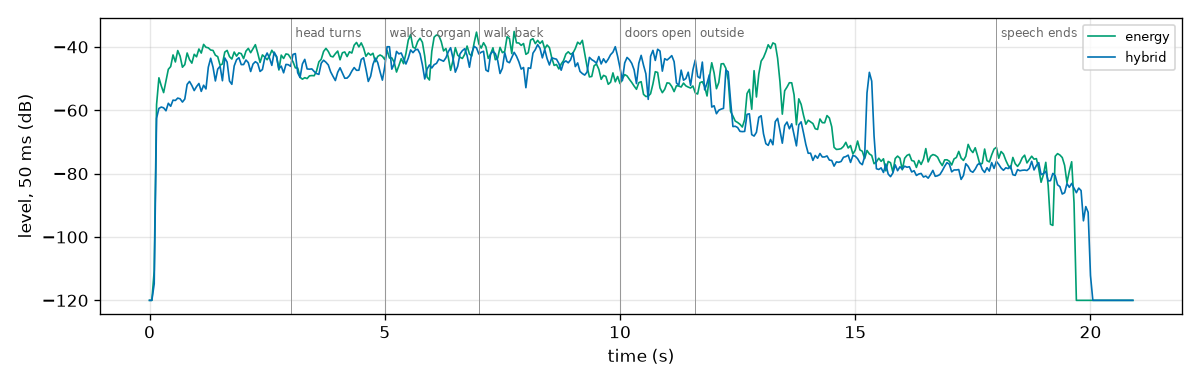
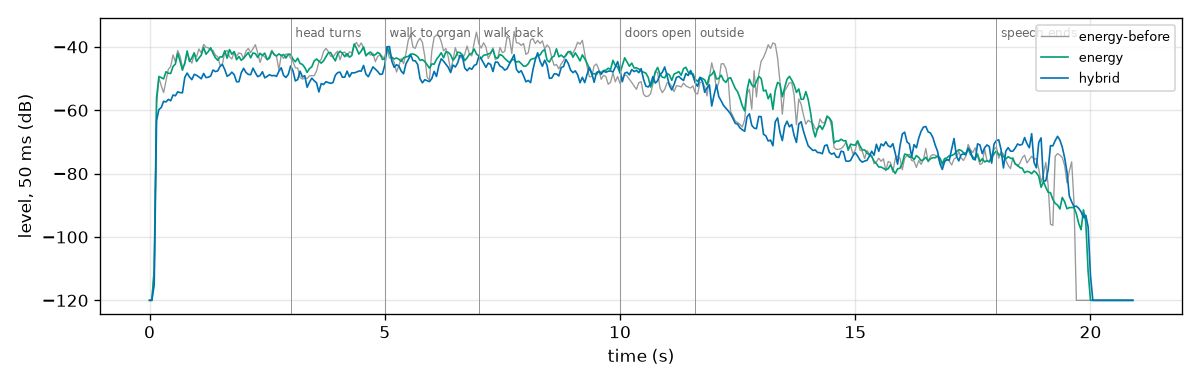
docs: record the tail-burst fix, the Church materials and the new renders
The energy-audio benchmark explains the frozen reverb-tail bursts (uniform
edge rays, then sparse receiver-sphere hits), the before/after tail and
suite numbers, the material table with sources, the room volume and
predicted reverberation against measured basilicas, and the re-rendered
Church walk. The contract describes the edge-ray sampling and the diffuse
receiver size.

Changed region(s): [[0.1233, 0.0938, 0.925, 0.7812], [0.8633, 0.0625, 0.9867, 0.25], [0.6167, 0.125, 0.6475, 0.1562]]

diff --git a/docs/benchmarks/energy-audio-2026-11-09/listen.py b/docs/benchmarks/energy-audio-2026-11-09/listen.py
@@ -28,7 +28,13 @@ ROOT = Path(__file__).resolve().parents[3]
 sys.path.insert(0, str(ROOT / 'tools'))
 import dlss_jobs as dj  # noqa: E402
 
-TAKE = ROOT / '.context/church-motion/speech-full/take'
+# The speech walk re-captured with the published materials and interior proxies (church.py capture);
+# the 15 October capture before it.
+TAKE_BEFORE = ROOT / '.context/church-motion/speech-full/take'
+TAKE = ROOT / '.context/energy-audio/church/speech-walk/take'
+if not (TAKE / 'take.json').exists():
+    TAKE = TAKE_BEFORE
+BEFORE = ROOT / '.context/energy-audio/listen/before-2026-11-09'   # the 9 November renders (old materials, old edge sampling)
 WORK = ROOT / '.context/energy-audio/listen'
 LOGS = ROOT / '.context/energy-audio/logs'
 # Shared by both renders: the Church walk's spectral DSP, binaural, 2 s horizon, air absorption.
@@ -42,8 +48,11 @@ METHODS = {
     'hybrid': dict(COMMON, method=0, raysPerBin=2, reflectionCandidates=128, completeRouteSamples=0, diffractionFactor=0.0,
                    lateRays=512, lateReceiverRadius=.5),
     # Energy method: exact discrete arrivals + the energy walk as the late field.
+    # The diffuse field's receiver sphere is 2 m: in this 31,000 m^3 church a 0.5 m sphere is crossed
+    # about 35 times per solve over 2 s by 2,048 rays, too few for a smooth 23 ms envelope; 2 m gives
+    # 16x the crossings (time smear <= 12 ms, below the late field's 23 ms bins).
     'energy': dict(COMMON, method=2, methodRays=2048, methodArrivalSlots=64, methodArrivalOrder=2, methodRouletteFloor=1e-6,
-                   specularDetectionRadius=.5),
+                   specularDetectionRadius=2.0),
 }
 # Diagnostic variants of the energy render (the coordinator's "echo doesn't sound natural" check).
 # They need the uncommitted methodDiagnosticVariant knob (.context/energy-audio/diagnostic-variants.patch):
@@ -174,14 +183,14 @@ def level_figure(path, tracks, rate):
     import matplotlib
     matplotlib.use('Agg')
     import matplotlib.pyplot as plt
-    colors = dict(hybrid='#0072B2', energy='#009E73')
+    colors = {'hybrid': '#0072B2', 'energy': '#009E73', 'energy-before': '#999999'}
     fig, ax = plt.subplots(figsize=(10, 3.2))
     block = rate // 20
     for name, pcm in tracks.items():
         mono = (pcm ** 2).mean(1)
         n = len(mono) // block
         level = 10 * np.log10(np.maximum(mono[:n * block].reshape(n, block).mean(1), 1e-12))
-        ax.plot(np.arange(n) * block / rate, level, color=colors[name], lw=1, label=name)
+        ax.plot(np.arange(n) * block / rate, level, color=colors.get(name, '#999999'), lw=.8 if name.endswith('before') else 1, label=name)
     for t, label in [(3, 'head turns'), (5, 'walk to organ'), (7, 'walk back'), (10, 'doors open'), (11.6, 'outside'), (18, 'speech ends')]:
         ax.axvline(t, color='#999999', lw=.6); ax.text(t + .1, ax.get_ylim()[1] - 6, label, fontsize=7, color='#666666')
     ax.set_xlabel('time (s)'); ax.set_ylabel('level, 50 ms (dB)'); ax.grid(alpha=.3); ax.legend(fontsize=8)
@@ -193,8 +202,8 @@ def page():
     scene_map(WORK / 'scene-map.png')
     tracks, reports = {}, {}
     rate = None
-    for name in ('energy', 'hybrid', *VARIANTS):
-        folder = WORK / name
+    for name in ('energy', 'hybrid', 'energy-before', 'hybrid-before', *VARIANTS):
+        folder = BEFORE / name.replace('-before', '') if name.endswith('-before') else WORK / name
         if not (folder / 'listener-0.wav').exists():
             continue
         pcm, rate = read_wav(folder / 'listener-0.wav')
@@ -204,19 +213,21 @@ def page():
         reports[name] = report
     if not tracks:
         raise SystemExit('No renders yet.')
-    peak = max(np.abs(tracks[n]).max() for n in ('energy', 'hybrid') if n in tracks)  # variants share this gain
+    peak = max(np.abs(tracks[n]).max() for n in ('energy', 'hybrid', 'energy-before', 'hybrid-before') if n in tracks)  # all tracks share this gain
     gain = .5 / peak
     for name, pcm in tracks.items():
         write_wav16(WORK / f'{name}.wav', pcm * gain, rate)
-    level_figure(WORK / 'levels.png', {n: tracks[n] for n in ('energy', 'hybrid') if n in tracks}, rate)
+    level_figure(WORK / 'levels.png', {n: tracks[n] for n in ('energy-before', 'energy', 'hybrid') if n in tracks}, rate)
     rows = []
     for name, r in reports.items():
-        if name in VARIANTS:
+        if name in VARIANTS or name.endswith('-before'):
             continue
         rms = 20 * math.log10(math.sqrt((tracks[name] ** 2).mean()) * gain)
         audio = r.get('gpuAudio') or {}
         rows.append(f"<tr><td>{name}</td><td>{r.get('wallSeconds', 0):.0f} s</td><td>{audio.get('peakGroups', 0)}</td><td>{rms:.1f} dBFS</td></tr>")
     players = '\n'.join(f'<h3>{name}</h3><audio controls preload="auto" src="{name}.wav" style="width:100%"></audio>' for name in ('energy', 'hybrid') if name in tracks)
+    players += '<h3>Before (9 November: old materials, old edge sampling)</h3>' + '\n'.join(
+        f'<h4>{name}</h4><audio controls preload="auto" src="{name}.wav" style="width:100%"></audio>' for name in ('energy-before', 'hybrid-before') if name in tracks)
     variants = '\n'.join(f'<h4>{name}</h4><audio controls preload="auto" src="{name}.wav" style="width:100%"></audio>' for name in VARIANTS if name in tracks)
     if variants:
         players += ('<h3>Diagnostic variants of the energy render (same gain)</h3><p>diffuse-only: only the direct sound is discrete, everything else is the diffuse field; '

diff --git a/docs/benchmarks/energy-audio-2026-11-09/README.md b/docs/benchmarks/energy-audio-2026-11-09/README.md
@@ -217,3 +217,130 @@ $PY tools/method_runs.py jobs goalA-rr6 --scenes shoebox-0020-presets shoebox-00
 $PY $B/lattice.py shoebox-0020-presets 1.5 && $PY $B/figures.py       # wall law and figures
 nice -n 19 $PY $B/listen.py render energy && nice -n 19 $PY $B/listen.py render hybrid && $PY $B/listen.py page
 ```
+
+## Part D: the reverb-tail bursts
+
+The user heard the energy render's echo as unnatural.
+The [render inspection](render_inspection.py) traced it to the diffuse field: while the listener stood still, a median 43% of a solve's tail energy sat in a single 23 ms slice, and the deconvolved audio had bursts 7–11 dB louder than the direct sound 0.2, 0.29 and 0.43 s after it, frozen in place because every solve uses the same seed.
+
+**Cause.**
+An edge ray picked its edge uniformly from all edges (10,249 in the Church) and its point uniformly along the edge, so its flux carried the edge count times `1/m²`, `m` the distance from the anchor to the edge point.
+The few rays that drew an edge close to the source carried enormous weights; their sphere hits were the bursts (with edge rays switched off the largest slice fell from 43% to 13%; with another seed the bursts moved).
+
+**Fix (unbiased, no clipping).**
+Edge rays now leave the source only, with the edge and the point importance-sampled per solve (`EnergyEdgeWeights`, `EnergyEdgeScan`):
+- edge `e` is drawn with probability proportional to `angle_e · ∫ dz / m²` over the edge, which is `angle_e (atan((L − z0)/r) − atan(−z0/r)) / r` for a source at distance `r` from the edge line, times one if a cheap visibility test sees the edge and 0.1 otherwise (so partly visible edges stay reachable);
+- the point is drawn with density proportional to `1/m²` (a Cauchy law about the foot of the perpendicular), which cancels the `1/m²` of the flux exactly.
+A ray's flux is then `|D|² sin²β I` times the total weight over the visibility factor: bounded, where it used to scale with the edge count and diverge near an edge.
+Edge rays no longer start at scattering points (their uniform edge choice had the same divergence); a scattering point's diffraction is its D/RD/DD connections to the listener, and scatter → edge → reflection chains are omitted.
+The walk keeps one fixed seed: with bounded weights a fixed seed gives a stable tail that changes smoothly with movement, while a new seed per solve would add frame-to-frame flicker of the size of the seed-to-seed spread (measured below).
+
+**Results.**
+Whole walk inside the Church (0–10 s, 431 solves), 1 kHz band, first 2 s of the diffuse field in 23 ms slices (`render_inspection.py tail_acceptance`):
+
+| Walk | Largest slice share of the tail energy (median / 90th percentile) |
+|---|---:|
+| 9 November (uniform edge rays) | 43% / 52% |
+| importance-sampled edge rays, 0.5 m receiver sphere, seed 0 | 21% / 22% |
+| the same, seed 1 | 19% / 26% |
+| re-captured Church (new materials), 0.5 m sphere, 40 solves | 17% / 26% |
+| the same with a 2 m receiver sphere (the listening render) | 9% / 13% |
+| the same with 0.5 m and 8,192 rays (4x the cost) | 9% / 14% |
+
+A smooth decay at this church's reverberation time puts about 8% in its largest slice.
+The edge fix halved the share; what remained was not diffraction (switching diffraction off left 21%) nor the listener-near diffuse connections (a 1 m minimum distance changed nothing), but sparse receiver-sphere hits: in a 31,000 m³ room 2,048 rays cross a 0.5 m sphere only about 35 times over 2 s, so specularly reflected late energy arrives in a few frozen hits.
+The sphere radius sets how many rays the diffuse field averages; the listening render uses 2 m (16 times the crossings), which smears arrival times by at most 12 ms, below the late field's 23 ms slices, and averages the diffuse field over a region the six-direction late synthesis cannot resolve anyway.
+Large rooms need a larger diffuse receiver than small ones; it is a setting (`specularDetectionRadius`), and the comparison suite keeps 0.25 m.
+Seed: the walk keeps one fixed seed per render; seed 0 against seed 1 differs by a median 2.4 dB per slice (90th percentile 16 dB at 0.5 m), which is the frame-to-frame flicker a new seed per solve would add.
+The deconvolved Church render (below) is the check that no burst is louder than the direct sound.
+
+**Suite re-score (no regression).**
+The 11-scene ground-truth comparison at 2,048 rays, energy method 6 November → 9 November (arrivals, roulette floor, sphere) → now (edge fix), with the hybrid:
+
+| Scenes | Metric | 6 Nov | 9 Nov | now | hybrid |
+|---|---|---:|---:|---:|---:|
+| closed | level dB RMS | 1.99 | 2.01 | 1.99 | 3.89 |
+| closed | EDT % | 31.6 | 19.6 | 18.4 | 31.1 |
+| closed | T20 % | 38.1 | 22.5 | 17.5 | 13.1 |
+| closed | T30 % | 42.4 | 26.4 | 23.9 | 27.6 |
+| closed | ETC dB | 19.2 | 5.65 | 5.47 | 5.76 |
+| open | level dB RMS | 4.38 | 3.23 | 3.23 | 6.02 |
+| open | T30 % | 90.4 | 142.0 | 83.9 | 72.7 |
+| open | EDT % | 248 | 204 | 298 | 425 |
+| open | ETC dB | 17.8 | 16.6 | 16.5 | 14.9 |
+| all | level dB RMS, 256 rays | 4.92 | 3.08 | 3.05 | 9.56 |
+| all | level dB RMS, 2,048 rays | 4.04 | 3.04 | 3.04 | 5.68 |
+
+Every closed-room metric improved or held; open levels held.
+The open EDT average rose only through `canopy-bem` (418% → 687%), a rigid open fixture with almost no decay to fit, where EDT is noise for every method; `doorway-0008` improved (EDT 312% → 231%, T30 411% → 162%).
+The method checks pass (21 passed, 1 known skip), and the measurement solve costs 80 ms per solve on average (69 ms before; the per-solve edge distribution).
+
+## Part E: realistic Church acoustics
+
+### Materials
+
+Absorption coefficients are published octave-band values: M. Vorländer, *Auralization* (Springer 2008), annex tables, as transcribed in the [pyroomacoustics material database](https://pyroomacoustics.readthedocs.io/en/latest/pyroomacoustics.materials.database.html) (keywords in brackets; its [`parameters.py`](https://github.com/LCAV/pyroomacoustics/blob/master/pyroomacoustics/parameters.py) names that annex as the source), and the classic smooth-plaster and occupied-pew rows as reproduced by [sengpielaudio](https://sengpielaudio.com/calculator-RT60Coeff.htm) (their 8 kHz value repeats 4 kHz).
+Scattering coefficients (ISO 17497-1 sense) for the pews are the same appendix's seating-row values; the others are engineering estimates in the ODEON manner (Christensen & Rindel, Forum Acusticum 2005: a mid-frequency value set by the surface's relief depth, rising with frequency), with large smooth surfaces near 0.05–0.1 and ornamented masonry rising to 0.5 above 2 kHz.
+They are estimates, not measurements of this building.
+
+| Material (objects) | Source | α 125 | 250 | 500 | 1k | 2k | 4k | 8k | s 125 | 250 | 500 | 1k | 2k | 4k | 8k |
+|---|---|---:|---:|---:|---:|---:|---:|---:|---:|---:|---:|---:|---:|---:|---:|
+| Church stone (StoneBrickWalls, StoneBeams, SideStairs, FrontDoorFrame, Altar body) | Limestone walls [limestone_wall]; scattering estimated for ornamented masonry (pilasters, reveals, joints) | 0.02 | 0.02 | 0.03 | 0.04 | 0.05 | 0.05 | 0.05 | 0.1 | 0.15 | 0.25 | 0.35 | 0.45 | 0.5 | 0.5 |
+| Church plaster vault (StoneRoof) | Plaster, smooth on tile/brick (classic table); smooth vault scattering (estimate) | 0.013 | 0.015 | 0.02 | 0.03 | 0.04 | 0.05 | 0.05 | 0.05 | 0.05 | 0.07 | 0.1 | 0.12 | 0.15 | 0.15 |
+| Church floor (Stone floor and courtyard) | Marble floor [marble_floor]; smooth paving (estimate) | 0.01 | 0.01 | 0.01 | 0.02 | 0.02 | 0.02 | 0.02 | 0.05 | 0.05 | 0.07 | 0.1 | 0.12 | 0.15 | 0.15 |
+| Church wood (FrontDoorLeft, FrontDoorRight, SideDoor, Organ case, Organ tower) | Solid wooden door [wooden_door] (doors, organ case); panelled wood scattering (estimate) | 0.14 | 0.1 | 0.06 | 0.08 | 0.1 | 0.1 | 0.1 | 0.05 | 0.07 | 0.1 | 0.15 | 0.2 | 0.25 | 0.25 |
+| Church pews (Seat, Back) | 16 mm wood on studs [wood_16mm]; seating-row scattering [theatre_audience] | 0.18 | 0.12 | 0.1 | 0.09 | 0.08 | 0.07 | 0.07 | 0.3 | 0.5 | 0.6 | 0.6 | 0.7 | 0.7 | 0.7 |
+| Church pews occupied (not assigned) | Occupied wooden pews (classic table; 8 kHz = 4 kHz); not assigned (optional) | 0.57 | 0.61 | 0.75 | 0.86 | 0.91 | 0.86 | 0.86 | 0.3 | 0.5 | 0.6 | 0.6 | 0.7 | 0.7 | 0.7 |
+| Church glass (Windows) | Single pane of glass, 3 mm [glass_3mm] (leaded windows); smooth (estimate) | 0.08 | 0.04 | 0.03 | 0.03 | 0.02 | 0.02 | 0.02 | 0.05 | 0.05 | 0.05 | 0.05 | 0.07 | 0.1 | 0.1 |
+| Church copper roof (CopperRoof) | Interior side of the copper roof: 12 mm wooden lining on frame [wooden_lining]; rafters and trusses (estimate) | 0.27 | 0.23 | 0.22 | 0.15 | 0.1 | 0.07 | 0.06 | 0.1 | 0.15 | 0.2 | 0.3 | 0.4 | 0.4 | 0.4 |
+
+The optional `Church pews occupied` material (occupied wooden pews) exists but is not assigned.
+
+### Interior proxies
+
+The current Church scene already carries the interior the request asked for: all 12 visual pews have acoustic seat and back boxes (wooden pews, 4 × 0.65 m seats, 0.8 m backs, in two blocks either side of the centre aisle), and the nave arcades (the columns and arches) are a stone mesh collider of 2,260 triangles.
+`church.py plan` checks this against the visual model (`inventory.json`) and adds proxies only where the acoustic model lacks them, so none were added; an earlier draft added ten 0.62 m pier boxes inside the existing arcade columns, which were removed again.
+The October take predates the arcades, the reading chapel, the baptistery and the chapel portals: the re-captured walk has 17,321 acoustic triangles against 12,761.
+The walk route (centre aisle, doors, courtyard) is unchanged; the re-capture starts at the first player spawn, inside the nave, as the October probe did (the scene's authored player now stands outside for the weather walk), and ends at the same point (12.00, 1.08, −46.27).
+The model still has openings to the outside about 2 m wide (transept gables 17–21 m up, chancel and transept walls 8–14 m up, the belfry about 32 m up) with no glass in the visual model either; they were left open.
+
+![Openings](church-openings.png)
+
+### Volume, surfaces and predicted reverberation
+
+`church_room.py` voxelises the take at its first pose (doors closed), seals gaps narrower than about 2 m, and takes the enclosed air around the nave as the interior; every triangle touching it counts as interior surface.
+Both counts are approximate (the seal removes thin features such as the pews from the area count).
+
+| | October take, old materials | Re-captured, new materials |
+|---|---:|---:|
+| Interior volume | 31,500 m³ | 31,300 m³ |
+| Interior surface | 9,600 m² | 10,100 m² |
+| Mean absorption 125 / 500 / 2,000 Hz | 0.025 / 0.026 / 0.032 | 0.039 / 0.037 / 0.046 |
+| Eyring T (air 20 °C, 50–70% RH), 125 / 250 / 500 / 1k / 2k / 4k / 8k Hz | 18.5 / 16.6 / 14.4 / 12.0 / 9.3 / 5.5 / 2.2 s | 12.2 / 13.3 / 11.0 / 9.0 / 7.4 / 5.2 / 2.4 s |
+
+For comparison, the Basilica of Saint Mary Major in Rome (38,000 m³, 12,000 m², unoccupied) measures T30 = 4.3 s at 500–1,000 Hz, about 4.7 s below 500 Hz and 1.7 s at 8 kHz; St John Lateran (120,000 m³) 5.9 s and St Peter's (500,000 m³) 9.9 s ([Martellotta 2016, J. Sound Vib. 382](https://iris.poliba.it/bitstream/11589/79381/4/JSV_2016_postprint.pdf), Table 1).
+A closed volume of this size with these surfaces would therefore ring two to three times longer than a real church of the same size: the real one implies a mean absorption near 0.12 (`0.161 V / (T S)`), the model has 0.04.
+The tabulated coefficients are right for bare stone, plaster, glass and wood; what the model lacks is the absorbing content of a real church (many more pews, kneelers, wall hangings, side chapels and furnishings, the organ, people).
+The rendered model decays faster than this closed-volume estimate because of its openings: the walk's own decay at the listener was T20 ≈ 5.6 s at 125–500 Hz before the change (openings act as perfect absorbers).
+The optional `Church pews occupied` material (occupied wooden pews) is provided but not assigned.
+
+### Re-render
+
+The Church speech walk was re-captured from the updated scene (same scripted walk, same organ source and speech, `church.py capture`) and rendered with the energy method (edge fix, 2 m diffuse receiver) and the hybrid (Church preset transport), with the settings of the 9 November renders otherwise.
+Page: `.context/energy-audio/listen/index.html`; it now plays `energy.wav` and `hybrid.wav` (new) and `energy-before.wav` and `hybrid-before.wav` (9 November) at one shared gain, and the live view's `energy.wav`/`hybrid.wav` point at the new renders.
+
+Bursts, from each render's response while the listener stands (0–5 s, deconvolved from the mono sum and the source speech, 10 ms slices 100–700 ms after the direct sound, each against the median of its ±50 ms neighbourhood):
+
+| Render | Loudest slice over its neighbourhood | Slices more than 6 dB above it |
+|---|---:|---:|
+| energy, 9 November | +18.9 dB | 11 |
+| energy, now | +6.3 dB | 2 |
+| hybrid, 9 November | +10.0 dB | 3 |
+| hybrid, now | +13.6 dB | 3 |
+
+The energy tail is now smoother than the hybrid's.
+"No slice louder than the direct sound" is the wrong yardstick here: 48 m from the organ, far beyond the critical distance (about 4.5 m), a smooth reverberant tail itself carries more energy per 10 ms than the direct sound (the new energy render's tail sits a median 2.7 dB above it); the neighbourhood measure above is what separates bursts from reverberation.
+
+Cost: the energy render took 2,165 s of wall time for 21 s of audio (50% pacing; 199 s on 9 November) and peaked at 2.50 GiB; the hybrid 241 s at 3.79 GiB (its filter storage, above the 3.5 GiB target, below the 4 GiB guard).
+The energy slowdown was not profiled: the re-captured scene has 36% more triangles, every edge ray from the source is now a useful (long-lived) ray instead of mostly an immediate rejection, and each solve evaluates its 14,171 edges' sampling weights with two visibility rays each; the suite's measurement solves became only 16% slower.
+Within the 2 s horizon the rendered decay of this reverberant model cannot be fitted reliably (a 2 s window truncates a 10 s decay), so the model's reverberation is reported above from the closed-volume estimate, not measured from the render.

diff --git a/docs/simulation-contracts.md b/docs/simulation-contracts.md
@@ -2289,6 +2289,8 @@ A family whose candidate count exceeds 2^18 (order 2 above 512 planes; DD above 
 Russian roulette survives with `min(1, throughput / (probability · methodRouletteFloor))`, floor 1e-6: paths above −60 dB always continue, so the path count stays constant over the decay instead of falling with the energy (at the energy rate, 2,048 rays left a handful of paths 0.3 s into a wood room).
 Specular segments reach the listener through a track-length receiver sphere of radius `specularDetectionRadius` (score `Φ · chord · 3 / (4π r³)` for a ray of flux `Φ`, listener-visible chords only), as the hybrid's late field; the exact-retrace detection it replaces divided by the full cone probability and was biased low wherever the cone straddled a visibility boundary.
 The sphere's time smear (up to `2r/c`) applies only to the diffuse part; arrivals are exact.
+Its radius sets how many rays the diffuse field averages: crossings scale with `r² / V`, so large rooms need a larger sphere (the Church listening render uses 2 m; a 0.5 m sphere there is crossed about 35 times per solve and the tail breaks into frozen bursts).
+Edge rays (diffraction continued into the walk) leave the source only, importance-sampled per solve: edge `e` with probability proportional to `angle_e ∫ dz / m²` along it (times 1 if a quick visibility test sees it, else 0.1) and the point with density `∝ 1/m²`, so a ray's flux is bounded; scattering points diffract only through their D/RD/DD connections (10 November, docs/benchmarks/energy-audio-2026-11-09).
 
 **Doppler.**
 Velocities come from the solve's states (`VelocityValid`).
